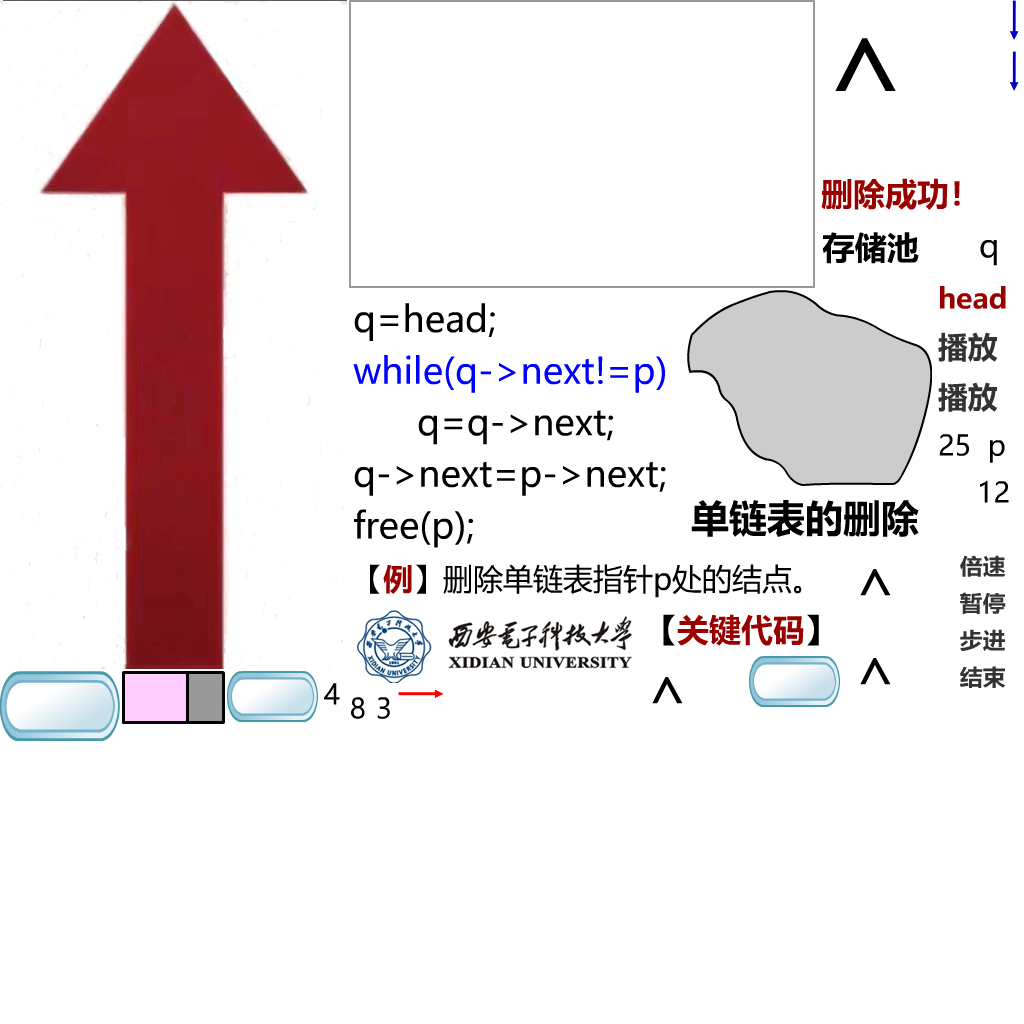
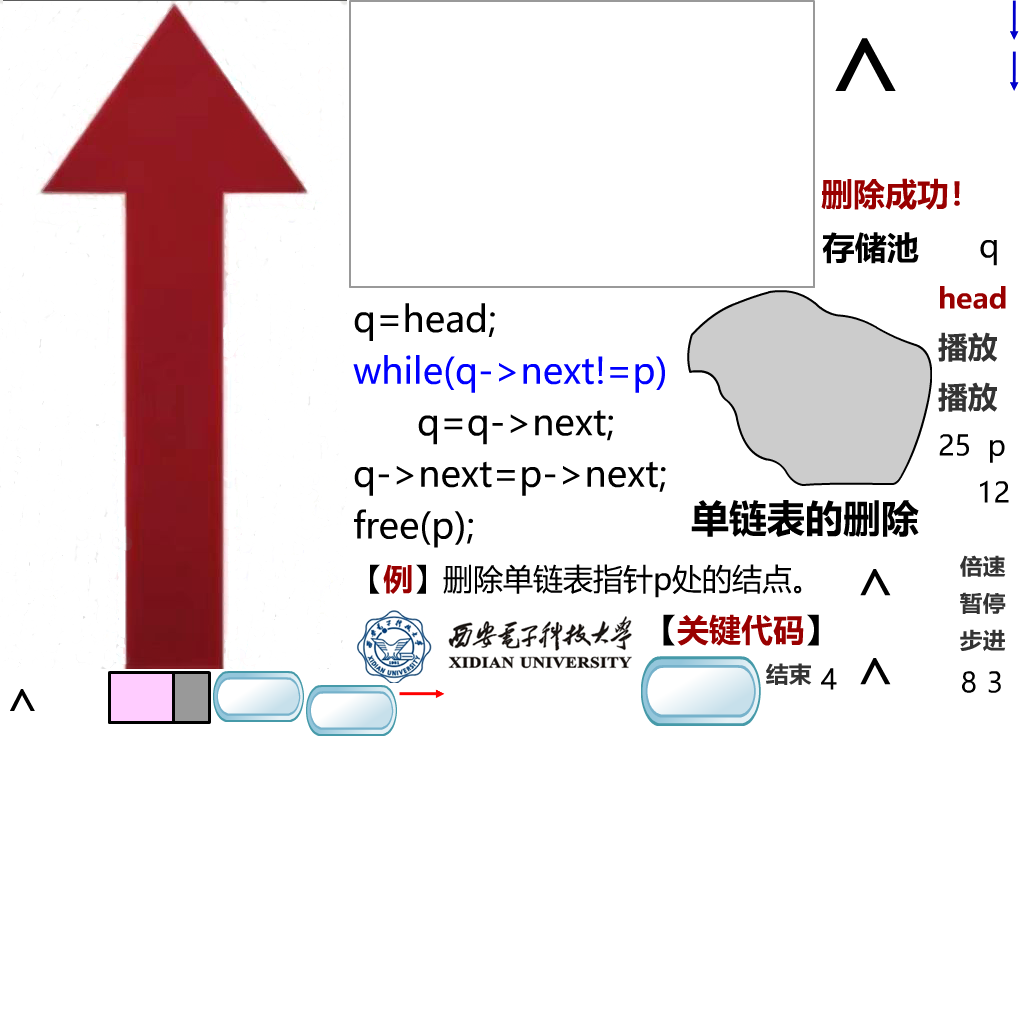
Add files via upload

diff --git a/单链表删除.html b/单链表删除.html
@@ -27,7 +27,7 @@
 var p; // shortcut to reference prototypes
 var lib={};var ss={};var img={};
 lib.ssMetadata = [
-		{name:"单链表删除_atlas_1", frames: [[817,220,156,53],[687,290,245,196],[957,548,52,35],[749,656,91,51],[957,585,52,35],[957,622,52,35],[975,220,29,50],[934,322,68,48],[934,372,68,48],[0,671,120,70],[957,659,52,35],[227,671,91,51],[849,548,106,87],[849,637,106,87],[984,422,26,45],[934,422,48,45],[320,671,24,45],[973,469,48,45],[346,685,24,45],[372,685,24,45],[122,671,103,53],[817,0,186,166],[641,604,206,50],[349,290,336,262],[349,554,488,48],[687,488,284,58],[349,0,466,288],[934,275,78,45],[817,168,192,50],[641,656,106,87],[1005,0,19,49],[1005,51,19,49],[398,685,55,18],[349,604,290,79],[0,0,347,669]]}
+		{name:"单链表删除_atlas_1", frames: [[817,220,156,53],[687,290,245,196],[957,548,52,35],[213,671,91,51],[957,585,52,35],[957,622,52,35],[975,220,29,50],[934,322,68,48],[934,372,68,48],[641,656,120,70],[763,656,52,35],[306,685,91,51],[849,548,106,87],[849,637,106,87],[984,422,26,45],[934,422,48,45],[817,656,24,45],[973,469,48,45],[957,659,24,45],[983,659,24,45],[108,671,103,53],[817,0,186,166],[641,604,206,50],[349,290,336,262],[349,554,488,48],[687,488,284,58],[349,0,466,288],[934,275,78,45],[817,168,192,50],[0,671,106,74],[1005,0,19,49],[1005,51,19,49],[399,685,55,18],[349,604,290,79],[0,0,347,669]]}
 ];
 (lib.AnMovieClip = function(){
 	this.actionFrames = [];
@@ -46,123 +46,123 @@ lib.ssMetadata = [
 	}
 }).prototype = p = new cjs.MovieClip();
 // symbols:
-(lib.CachedBmp_479 = function() {
+(lib.CachedBmp_45 = function() {
 	this.initialize(ss["单链表删除_atlas_1"]);
 	this.gotoAndStop(0);
 }).prototype = p = new cjs.Sprite();
-(lib.CachedBmp_478 = function() {
+(lib.CachedBmp_44 = function() {
 	this.initialize(ss["单链表删除_atlas_1"]);
 	this.gotoAndStop(1);
 }).prototype = p = new cjs.Sprite();
-(lib.CachedBmp_477 = function() {
+(lib.CachedBmp_43 = function() {
 	this.initialize(ss["单链表删除_atlas_1"]);
 	this.gotoAndStop(2);
 }).prototype = p = new cjs.Sprite();
-(lib.CachedBmp_476 = function() {
+(lib.CachedBmp_42 = function() {
 	this.initialize(ss["单链表删除_atlas_1"]);
 	this.gotoAndStop(3);
 }).prototype = p = new cjs.Sprite();
-(lib.CachedBmp_475 = function() {
+(lib.CachedBmp_41 = function() {
 	this.initialize(ss["单链表删除_atlas_1"]);
 	this.gotoAndStop(4);
 }).prototype = p = new cjs.Sprite();
-(lib.CachedBmp_473 = function() {
+(lib.CachedBmp_39 = function() {
 	this.initialize(ss["单链表删除_atlas_1"]);
 	this.gotoAndStop(5);
 }).prototype = p = new cjs.Sprite();
-(lib.CachedBmp_471 = function() {
+(lib.CachedBmp_37 = function() {
 	this.initialize(ss["单链表删除_atlas_1"]);
 	this.gotoAndStop(6);
 }).prototype = p = new cjs.Sprite();
-(lib.CachedBmp_470 = function() {
+(lib.CachedBmp_36 = function() {
 	this.initialize(ss["单链表删除_atlas_1"]);
 	this.gotoAndStop(7);
 }).prototype = p = new cjs.Sprite();
-(lib.CachedBmp_468 = function() {
+(lib.CachedBmp_34 = function() {
 	this.initialize(ss["单链表删除_atlas_1"]);
 	this.gotoAndStop(8);
 }).prototype = p = new cjs.Sprite();
-(lib.CachedBmp_469 = function() {
+(lib.CachedBmp_35 = function() {
 	this.initialize(ss["单链表删除_atlas_1"]);
 	this.gotoAndStop(9);
 }).prototype = p = new cjs.Sprite();
-(lib.CachedBmp_466 = function() {
+(lib.CachedBmp_32 = function() {
 	this.initialize(ss["单链表删除_atlas_1"]);
 	this.gotoAndStop(10);
 }).prototype = p = new cjs.Sprite();
-(lib.CachedBmp_474 = function() {
+(lib.CachedBmp_40 = function() {
 	this.initialize(ss["单链表删除_atlas_1"]);
 	this.gotoAndStop(11);
 }).prototype = p = new cjs.Sprite();
-(lib.CachedBmp_464 = function() {
+(lib.CachedBmp_30 = function() {
 	this.initialize(ss["单链表删除_atlas_1"]);
 	this.gotoAndStop(12);
 }).prototype = p = new cjs.Sprite();
-(lib.CachedBmp_463 = function() {
+(lib.CachedBmp_29 = function() {
 	this.initialize(ss["单链表删除_atlas_1"]);
 	this.gotoAndStop(13);
 }).prototype = p = new cjs.Sprite();
-(lib.CachedBmp_462 = function() {
+(lib.CachedBmp_28 = function() {
 	this.initialize(ss["单链表删除_atlas_1"]);
 	this.gotoAndStop(14);
 }).prototype = p = new cjs.Sprite();
-(lib.CachedBmp_461 = function() {
+(lib.CachedBmp_27 = function() {
 	this.initialize(ss["单链表删除_atlas_1"]);
 	this.gotoAndStop(15);
 }).prototype = p = new cjs.Sprite();
-(lib.CachedBmp_459 = function() {
+(lib.CachedBmp_25 = function() {
 	this.initialize(ss["单链表删除_atlas_1"]);
 	this.gotoAndStop(16);
 }).prototype = p = new cjs.Sprite();
-(lib.CachedBmp_457 = function() {
+(lib.CachedBmp_23 = function() {
 	this.initialize(ss["单链表删除_atlas_1"]);
 	this.gotoAndStop(17);
 }).prototype = p = new cjs.Sprite();
-(lib.CachedBmp_455 = function() {
+(lib.CachedBmp_21 = function() {
 	this.initialize(ss["单链表删除_atlas_1"]);
 	this.gotoAndStop(18);
 }).prototype = p = new cjs.Sprite();
-(lib.CachedBmp_453 = function() {
+(lib.CachedBmp_19 = function() {
 	this.initialize(ss["单链表删除_atlas_1"]);
 	this.gotoAndStop(19);
 }).prototype = p = new cjs.Sprite();
-(lib.CachedBmp_460 = function() {
+(lib.CachedBmp_26 = function() {
 	this.initialize(ss["单链表删除_atlas_1"]);
 	this.gotoAndStop(20);
 }).prototype = p = new cjs.Sprite();
-(lib.CachedBmp_451 = function() {
+(lib.CachedBmp_17 = function() {
 	this.initialize(ss["单链表删除_atlas_1"]);
 	this.gotoAndStop(21);
 }).prototype = p = new cjs.Sprite();
-(lib.CachedBmp_450 = function() {
+(lib.CachedBmp_16 = function() {
 	this.initialize(ss["单链表删除_atlas_1"]);
 	this.gotoAndStop(22);
 }).prototype = p = new cjs.Sprite();
-(lib.CachedBmp_449 = function() {
+(lib.CachedBmp_15 = function() {
 	this.initialize(ss["单链表删除_atlas_1"]);
 	this.gotoAndStop(23);
 }).prototype = p = new cjs.Sprite();
-(lib.CachedBmp_448 = function() {
+(lib.CachedBmp_14 = function() {
 	this.initialize(ss["单链表删除_atlas_1"]);
 	this.gotoAndStop(24);
 }).prototype = p = new cjs.Sprite();
-(lib.CachedBmp_447 = function() {
+(lib.CachedBmp_13 = function() {
 	this.initialize(ss["单链表删除_atlas_1"]);
 	this.gotoAndStop(25);
 }).prototype = p = new cjs.Sprite();
-(lib.CachedBmp_446 = function() {
+(lib.CachedBmp_12 = function() {
 	this.initialize(ss["单链表删除_atlas_1"]);
 	this.gotoAndStop(26);
 }).prototype = p = new cjs.Sprite();
-(lib.CachedBmp_445 = function() {
+(lib.CachedBmp_11 = function() {
 	this.initialize(ss["单链表删除_atlas_1"]);
 	this.gotoAndStop(27);
 }).prototype = p = new cjs.Sprite();
-(lib.CachedBmp_444 = function() {
+(lib.CachedBmp_10 = function() {
 	this.initialize(ss["单链表删除_atlas_1"]);
 	this.gotoAndStop(28);
 }).prototype = p = new cjs.Sprite();
-(lib.CachedBmp_443 = function() {
+(lib.CachedBmp_9 = function() {
 	this.initialize(ss["单链表删除_atlas_1"]);
 	this.gotoAndStop(29);
 }).prototype = p = new cjs.Sprite();
@@ -197,9 +197,9 @@ if (reversed == null) { reversed = false; }
 	props.reversed = reversed;
 	cjs.MovieClip.apply(this,[props]);
 	// 图层_1
-	this.instance = new lib.CachedBmp_479();
+	this.instance = new lib.CachedBmp_45();
 	this.instance.setTransform(0,78.85,0.5,0.5);
-	this.instance_1 = new lib.CachedBmp_478();
+	this.instance_1 = new lib.CachedBmp_44();
 	this.instance_1.setTransform(7.75,-0.5,0.5,0.5);
 	this.timeline.addTween(cjs.Tween.get({}).to({state:[{t:this.instance_1},{t:this.instance}]}).wait(1));
 	this._renderFirstFrame();
@@ -216,9 +216,9 @@ if (reversed == null) { reversed = false; }
 	props.reversed = reversed;
 	cjs.MovieClip.apply(this,[props]);
 	// 图层_1
-	this.instance = new lib.CachedBmp_477();
+	this.instance = new lib.CachedBmp_43();
 	this.instance.setTransform(9.05,4.2,0.5,0.5);
-	this.instance_1 = new lib.CachedBmp_476();
+	this.instance_1 = new lib.CachedBmp_42();
 	this.instance_1.setTransform(0,0,0.5,0.5);
 	this.timeline.addTween(cjs.Tween.get({}).to({state:[{t:this.instance_1},{t:this.instance}]}).wait(1));
 	this._renderFirstFrame();
@@ -235,9 +235,9 @@ if (reversed == null) { reversed = false; }
 	props.reversed = reversed;
 	cjs.MovieClip.apply(this,[props]);
 	// 图层_1
-	this.instance = new lib.CachedBmp_475();
+	this.instance = new lib.CachedBmp_41();
 	this.instance.setTransform(9.05,4.2,0.5,0.5);
-	this.instance_1 = new lib.CachedBmp_474();
+	this.instance_1 = new lib.CachedBmp_40();
 	this.instance_1.setTransform(0,0,0.5,0.5);
 	this.timeline.addTween(cjs.Tween.get({}).to({state:[{t:this.instance_1},{t:this.instance}]}).wait(1));
 	this._renderFirstFrame();
@@ -254,9 +254,9 @@ if (reversed == null) { reversed = false; }
 	props.reversed = reversed;
 	cjs.MovieClip.apply(this,[props]);
 	// 图层_1
-	this.instance = new lib.CachedBmp_473();
+	this.instance = new lib.CachedBmp_39();
 	this.instance.setTransform(9.05,4.2,0.5,0.5);
-	this.instance_1 = new lib.CachedBmp_474();
+	this.instance_1 = new lib.CachedBmp_40();
 	this.instance_1.setTransform(0,0,0.5,0.5);
 	this.timeline.addTween(cjs.Tween.get({}).to({state:[{t:this.instance_1},{t:this.instance}]}).wait(1));
 	this._renderFirstFrame();
@@ -273,7 +273,7 @@ if (reversed == null) { reversed = false; }
 	props.reversed = reversed;
 	cjs.MovieClip.apply(this,[props]);
 	// 图层_1
-	this.instance = new lib.CachedBmp_471();
+	this.instance = new lib.CachedBmp_37();
 	this.instance.setTransform(7.5,-4.5,0.5,0.5);
 	this.instance_1 = new lib.flash0();
 	this.instance_1.setTransform(0,1,0.7901,0.5884);
@@ -292,11 +292,11 @@ if (reversed == null) { reversed = false; }
 	props.reversed = reversed;
 	cjs.MovieClip.apply(this,[props]);
 	// 图层 1
-	this.instance = new lib.CachedBmp_468();
+	this.instance = new lib.CachedBmp_34();
 	this.instance.setTransform(10,13.8,0.5,0.5);
-	this.instance_1 = new lib.CachedBmp_469();
+	this.instance_1 = new lib.CachedBmp_35();
 	this.instance_1.setTransform(-2,8,0.5,0.5);
-	this.instance_2 = new lib.CachedBmp_470();
+	this.instance_2 = new lib.CachedBmp_36();
 	this.instance_2.setTransform(10,13.8,0.5,0.5);
 	this.timeline.addTween(cjs.Tween.get({}).to({state:[{t:this.instance_1},{t:this.instance}]}).to({state:[{t:this.instance_1},{t:this.instance_2}]},2).wait(1));
 	this._renderFirstFrame();
@@ -337,9 +337,9 @@ if (reversed == null) { reversed = false; }
 	props.reversed = reversed;
 	cjs.MovieClip.apply(this,[props]);
 	// 图层_1
-	this.instance = new lib.CachedBmp_466();
+	this.instance = new lib.CachedBmp_32();
 	this.instance.setTransform(9.05,4.2,0.5,0.5);
-	this.instance_1 = new lib.CachedBmp_474();
+	this.instance_1 = new lib.CachedBmp_40();
 	this.instance_1.setTransform(0,0,0.5,0.5);
 	this.timeline.addTween(cjs.Tween.get({}).to({state:[{t:this.instance_1},{t:this.instance}]}).wait(1));
 	this._renderFirstFrame();
@@ -356,7 +356,7 @@ if (reversed == null) { reversed = false; }
 	props.reversed = reversed;
 	cjs.MovieClip.apply(this,[props]);
 	// 图层_1
-	this.instance = new lib.CachedBmp_464();
+	this.instance = new lib.CachedBmp_30();
 	this.instance.setTransform(-26.5,-21.8,0.5,0.5);
 	this.timeline.addTween(cjs.Tween.get(this.instance).wait(1));
 	this._renderFirstFrame();
@@ -373,7 +373,7 @@ if (reversed == null) { reversed = false; }
 	props.reversed = reversed;
 	cjs.MovieClip.apply(this,[props]);
 	// 图层_1
-	this.instance = new lib.CachedBmp_463();
+	this.instance = new lib.CachedBmp_29();
 	this.instance.setTransform(-26.5,-21.8,0.5,0.5);
 	this.timeline.addTween(cjs.Tween.get(this.instance).wait(1));
 	this._renderFirstFrame();
@@ -407,9 +407,9 @@ if (reversed == null) { reversed = false; }
 	props.reversed = reversed;
 	cjs.MovieClip.apply(this,[props]);
 	// 图层_1
-	this.instance = new lib.CachedBmp_461();
+	this.instance = new lib.CachedBmp_27();
 	this.instance.setTransform(9,1.7,0.5,0.5);
-	this.instance_1 = new lib.CachedBmp_460();
+	this.instance_1 = new lib.CachedBmp_26();
 	this.instance_1.setTransform(-0.75,-0.75,0.5,0.5);
 	this.timeline.addTween(cjs.Tween.get({}).to({state:[{t:this.instance_1},{t:this.instance}]}).wait(1));
 	this._renderFirstFrame();
@@ -426,9 +426,9 @@ if (reversed == null) { reversed = false; }
 	props.reversed = reversed;
 	cjs.MovieClip.apply(this,[props]);
 	// 图层_1
-	this.instance = new lib.CachedBmp_459();
+	this.instance = new lib.CachedBmp_25();
 	this.instance.setTransform(18,1.7,0.5,0.5);
-	this.instance_1 = new lib.CachedBmp_460();
+	this.instance_1 = new lib.CachedBmp_26();
 	this.instance_1.setTransform(-0.75,-0.75,0.5,0.5);
 	this.timeline.addTween(cjs.Tween.get({}).to({state:[{t:this.instance_1},{t:this.instance}]}).wait(1));
 	this._renderFirstFrame();
@@ -445,9 +445,9 @@ if (reversed == null) { reversed = false; }
 	props.reversed = reversed;
 	cjs.MovieClip.apply(this,[props]);
 	// 图层_1
-	this.instance = new lib.CachedBmp_457();
+	this.instance = new lib.CachedBmp_23();
 	this.instance.setTransform(9,1.7,0.5,0.5);
-	this.instance_1 = new lib.CachedBmp_460();
+	this.instance_1 = new lib.CachedBmp_26();
 	this.instance_1.setTransform(-0.75,-0.75,0.5,0.5);
 	this.timeline.addTween(cjs.Tween.get({}).to({state:[{t:this.instance_1},{t:this.instance}]}).wait(1));
 	this._renderFirstFrame();
@@ -464,9 +464,9 @@ if (reversed == null) { reversed = false; }
 	props.reversed = reversed;
 	cjs.MovieClip.apply(this,[props]);
 	// 图层_1
-	this.instance = new lib.CachedBmp_455();
+	this.instance = new lib.CachedBmp_21();
 	this.instance.setTransform(18,1.7,0.5,0.5);
-	this.instance_1 = new lib.CachedBmp_460();
+	this.instance_1 = new lib.CachedBmp_26();
 	this.instance_1.setTransform(-0.75,-0.75,0.5,0.5);
 	this.timeline.addTween(cjs.Tween.get({}).to({state:[{t:this.instance_1},{t:this.instance}]}).wait(1));
 	this._renderFirstFrame();
@@ -483,9 +483,9 @@ if (reversed == null) { reversed = false; }
 	props.reversed = reversed;
 	cjs.MovieClip.apply(this,[props]);
 	// 图层_1
-	this.instance = new lib.CachedBmp_453();
+	this.instance = new lib.CachedBmp_19();
 	this.instance.setTransform(18,1.7,0.5,0.5);
-	this.instance_1 = new lib.CachedBmp_460();
+	this.instance_1 = new lib.CachedBmp_26();
 	this.instance_1.setTransform(-0.75,-0.75,0.5,0.5);
 	this.timeline.addTween(cjs.Tween.get({}).to({state:[{t:this.instance_1},{t:this.instance}]}).wait(1));
 	this._renderFirstFrame();
@@ -502,7 +502,7 @@ if (reversed == null) { reversed = false; }
 	props.reversed = reversed;
 	cjs.MovieClip.apply(this,[props]);
 	// 图层_1
-	this.instance = new lib.CachedBmp_462();
+	this.instance = new lib.CachedBmp_28();
 	this.instance.setTransform(15.4,14.15,0.5,0.5);
 	this.instance_1 = new lib.flash0复制();
 	this.instance_1.setTransform(8,19,0.7895,0.5885);
@@ -614,8 +614,8 @@ if (reversed == null) { reversed = false; }
 	// actions tween:
 	this.timeline.addTween(cjs.Tween.get(this).call(this.frame_0).wait(182));
 	// 空指针
-	this.instance = new lib.CachedBmp_443();
-	this.instance.setTransform(443,99.95,0.5,0.5);
+	this.instance = new lib.CachedBmp_9();
+	this.instance.setTransform(445,103.95,0.5,0.5);
 	this.instance_1 = new lib.补间5("synched",0);
 	this.instance_1.setTransform(469.5,121.75);
 	this.instance_1._off = true;
@@ -650,7 +650,7 @@ if (reversed == null) { reversed = false; }
 	this.instance_3.setTransform(102.55,95.55,1,1,0,0,0,9,15.7);
 	this.instance_3.alpha = 0;
 	this.instance_3._off = true;
-	this.instance_4 = new lib.CachedBmp_444();
+	this.instance_4 = new lib.CachedBmp_10();
 	this.instance_4.setTransform(364,146.55,0.5,0.5);
 	this.timeline.addTween(cjs.Tween.get({}).to({state:[]}).to({state:[{t:this.instance_3}]},1).to({state:[{t:this.instance_3}]},8).to({state:[{t:this.instance_3}]},10).to({state:[{t:this.instance_3}]},20).to({state:[{t:this.instance_3}]},4).to({state:[{t:this.instance_3}]},20).to({state:[{t:this.instance_3}]},4).to({state:[{t:this.instance_3}]},20).to({state:[{t:this.instance_3}]},14).to({state:[{t:this.instance_3}]},1).to({state:[{t:this.instance_3}]},58).to({state:[{t:this.instance_3},{t:this.instance_4}]},21).wait(1));
 	this.timeline.addTween(cjs.Tween.get(this.instance_3).wait(1).to({_off:false},0).to({alpha:1},8).wait(10).to({startPosition:0},0).to({x:177.55},20).wait(4).to({startPosition:0},0).to({x:242.55},20).wait(4).to({startPosition:0},0).to({x:307.55},20).wait(14).to({startPosition:0},0).wait(1).to({startPosition:0},0).wait(58).to({startPosition:0},0).wait(21).to({startPosition:0},0).wait(1));
@@ -673,7 +673,7 @@ if (reversed == null) { reversed = false; }
 	// 不动节点
 	this.instance_9 = new lib.位图5();
 	this.instance_9.setTransform(89,116,0.0288,0.0523,90);
-	this.instance_10 = new lib.CachedBmp_445();
+	this.instance_10 = new lib.CachedBmp_11();
 	this.instance_10.setTransform(51.3,97.55,0.5,0.5);
 	this.instance_11 = new lib.arrow("synched",0);
 	this.instance_11.setTransform(261.2,116.5,0.7624,0.75,0,0,0,0,6);
@@ -691,21 +691,21 @@ if (reversed == null) { reversed = false; }
 	this.instance_17.setTransform(180,118,1,1,0,0,0,25,12.5);
 	this.timeline.addTween(cjs.Tween.get({}).to({state:[{t:this.instance_17},{t:this.instance_16},{t:this.instance_15},{t:this.instance_14},{t:this.instance_13},{t:this.instance_12},{t:this.instance_11},{t:this.instance_10},{t:this.instance_9}]}).wait(182));
 	// 图层_1
-	this.instance_18 = new lib.CachedBmp_451();
+	this.instance_18 = new lib.CachedBmp_17();
 	this.instance_18.setTransform(1416.6,324.7,0.5,0.5);
 	this.instance_19 = new lib.位图3();
 	this.instance_19.setTransform(375,352,0.4138,0.3797);
-	this.instance_20 = new lib.CachedBmp_450();
+	this.instance_20 = new lib.CachedBmp_16();
 	this.instance_20.setTransform(33,169.15,0.5,0.5);
-	this.instance_21 = new lib.CachedBmp_449();
+	this.instance_21 = new lib.CachedBmp_15();
 	this.instance_21.setTransform(68,209.15,0.5,0.5);
 	this.instance_22 = new lib.存储池("synched",0);
 	this.instance_22.setTransform(411.3,262.85,1,1,0,0,0,65.2,54.2);
-	this.instance_23 = new lib.CachedBmp_448();
+	this.instance_23 = new lib.CachedBmp_14();
 	this.instance_23.setTransform(32,58.7,0.5,0.5);
-	this.instance_24 = new lib.CachedBmp_447();
+	this.instance_24 = new lib.CachedBmp_13();
 	this.instance_24.setTransform(209,16.2,0.5,0.5);
-	this.instance_25 = new lib.CachedBmp_446();
+	this.instance_25 = new lib.CachedBmp_12();
 	this.instance_25.setTransform(31.5,199.45,0.5,0.5);
 	this.timeline.addTween(cjs.Tween.get({}).to({state:[{t:this.instance_25},{t:this.instance_24},{t:this.instance_23},{t:this.instance_22},{t:this.instance_21},{t:this.instance_20},{t:this.instance_19},{t:this.instance_18}]}).wait(182));
 	// 跟踪
